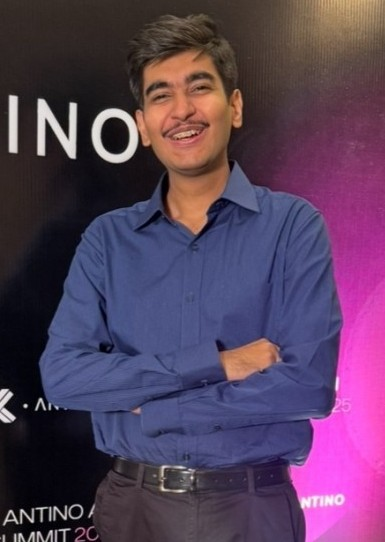
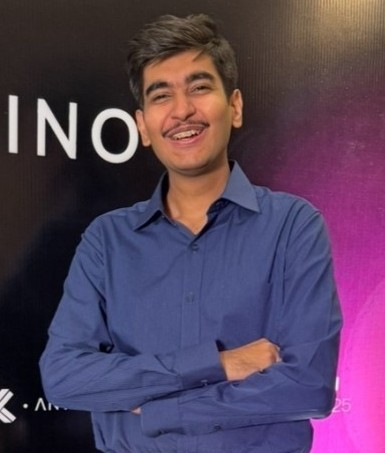
Update mentors data and assets

diff --git a/src/data/community.ts b/src/data/community.ts
@@ -117,6 +117,16 @@ import img_mentor_shivam_garg from "@/assets/mentors/shivam-garg.png"
 import img_mentor_krish_khattar from "@/assets/mentors/krish-khattar.jpg"
 import img_mentor_bhupendra_chouhan from "@/assets/mentors/bhupendra-chouhan.jpg"
 import img_mentor_vinit_vijal from "@/assets/mentors/vinit-vijal.jpg"
+import img_mentor_kashika_gupta from "@/assets/mentors/kashika-gupta.png"
+import img_mentor_diya_k_bhat from "@/assets/mentors/diya-k-bhat.jpg"
+import img_mentor_tushar_gupta from "@/assets/mentors/tushar-gupta.png"
+import img_mentor_abhijeet_jha from "@/assets/mentors/abhijeet-jha.png"
+import img_mentor_adyasha_das from "@/assets/mentors/adyasha-das.png"
+import img_mentor_vansh_mehta from "@/assets/mentors/vansh-mehta.png"
+import img_mentor_kabir_singh from "@/assets/mentors/kabir-singh.jpg"
+import img_mentor_aryan_brahmane from "@/assets/mentors/aryan-bramhane.jpg"
+import img_mentor_shreya_mathur from "@/assets/mentors/shreya-mathur.png"
+import img_mentor_manas_narang from "@/assets/mentors/mannas-narang.png"
 import img_contrib_suhani_garg from "@/assets/contributors/suhani-garg.jpeg";
 import img_contrib_priyanka_kumari_gond from "@/assets/contributors/priyanka-kumari-gond.webp";
 import img_contrib_arya_rai from "@/assets/contributors/arya-rai.jpg";
@@ -430,7 +440,7 @@ export const mentors: Mentor[] = [
   {
     id: "m5",
     name: "Bhupendra Chouhan",
-    linkedin: "https://www.linkedin.com/in/theektaagrawal/",
+    linkedin: "https://www.linkedin.com/in/bhupendrachouhan/",
     image: img_mentor_bhupendra_chouhan,
     designation: "Blockchain DevRel Engineer & Maintainer",
     company: "RiseIn"
@@ -443,12 +453,100 @@ export const mentors: Mentor[] = [
     designation: "Software Engineer",
     company: "Roger N Reckon"
   },
-
-
-
-
-
-
+  {
+    id: "m7",
+    name: "Shreya Sharma",
+    linkedin: "https://www.linkedin.com/in/shreya-8970-",
+    designation: "Frontend developer",
+    company: "ScholarRank AI"
+  },
+  {
+    id: "m8",
+    name: "Sarah Park",
+    linkedin: "https://www.linkedin.com/in/sarah-park-324407328/",
+    designation: "Student",
+    company: "Thomas Jefferson High School for Science and Technology "
+  },
+  {
+    id: "m9",
+    name: "Kashika Gupta",
+    linkedin: "https://www.linkedin.com/in/kashikagupta/",
+    image: img_mentor_kashika_gupta,
+    designation: "System Engineer",
+    company: "Infosys"
+  },
+  {
+    id: "m10",
+    name: "Diya K Bhat",
+    linkedin: "https://www.linkedin.com/in/diya-k-bhat-75b450257?utm_source=share_via&utm_content=profile&utm_medium=member_android",
+    image: img_mentor_diya_k_bhat,
+    designation: "AI&ML Engineer",
+    company: "WizzyBox Private Limited"
+  },
+  {
+    id: "m11",
+    name: "Tushar Gupta",
+    linkedin: "https://linkedin.com/in/tushar1504",
+    image: img_mentor_tushar_gupta,
+    designation: "Mentor",
+    company: "topmate.io"
+  },
+  {
+    id: "m12",
+    name: "Abhijeet Jha",
+    linkedin: "https://www.linkedin.com/in/abhijeetcreates?utm_source=share_via&utm_content=profile&utm_medium=member_android",
+    image: img_mentor_abhijeet_jha,
+    designation: "Co Founder & Chief AI ML Engineer",
+    company: "Pathixo "
+  },
+  {
+    id: "m13",
+    name: "Adyasha Jha",
+    linkedin: "https://www.linkedin.com/in/adyashadas04?utm_source=share_via&utm_content=profile&utm_medium=member_android",
+    image: img_mentor_adyasha_das,
+    designation: "Engineering Intern(T&T)",
+    company: "Deloitte India"
+  },
+  {
+    id: "m14",
+    name: "Vansh Mehta",
+    linkedin: "https://www.linkedin.com/in/vansh-mehta-8867b8275?utm_source=share&utm_campaign=share_via&utm_content=profile&utm_medium=android_appps://www.linkedin.com/in/diya-k-bhat-75b450257?utm_source=share_via&utm_content=profile&utm_medium=member_android",
+    image: img_mentor_vansh_mehta,
+    designation: "Full stack Engineer Intern",
+    company: "Inovatix Solutions"
+  },
+  {
+    id: "m15",
+    name: "Kabir Singh",
+    linkedin: "https://www.linkedin.com/in/kabir-singh-9193k/://www.linkedin.com/in/diya-k-bhat-75b450257?utm_source=share_via&utm_content=profile&utm_medium=member_android",
+    image: img_mentor_kabir_singh,
+    designation: "React Lead",
+    company: "AppStorys"
+  },
+  {
+    id: "m16",
+    name: "Aryan Brahmane",
+    linkedin: "https://www.linkedin.com/in/aryan-bramhane/",
+    image: img_mentor_aryan_brahmane,
+    designation: "Developer Relationship",
+    company: "Anakin (YC S21)"
+  },
+  {
+    id: "m17",
+    name: "Shreya Mathur",
+    linkedin: "https://www.linkedin.com/in/shreya-mathur19?utm_source=share_via&utm_content=profile&utm_medium=member_android",
+    image: img_mentor_shreya_mathur,
+    designation: "Software Developer",
+    company: "Mobisec Technologies"
+  },
+  {
+    id: "m18",
+    name: "Manas Narang",
+    linkedin: "https://www.linkedin.com/in/mannasnarang/",
+    image: img_mentor_manas_narang,
+    designation: "Product Engineer",
+    company: "Wander"
+  },
 ];
 
 export const contributors: TeamMember[] = [